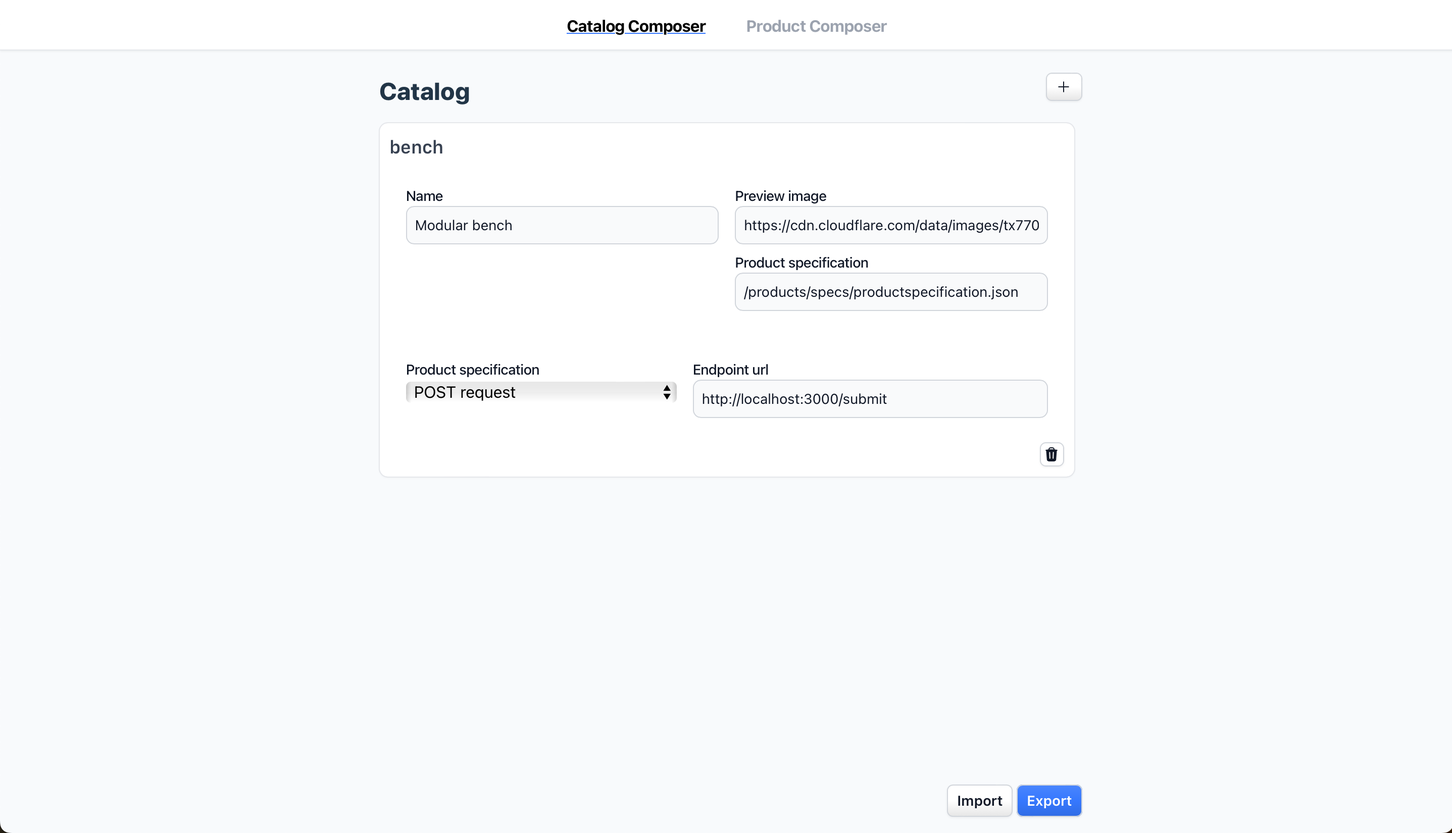
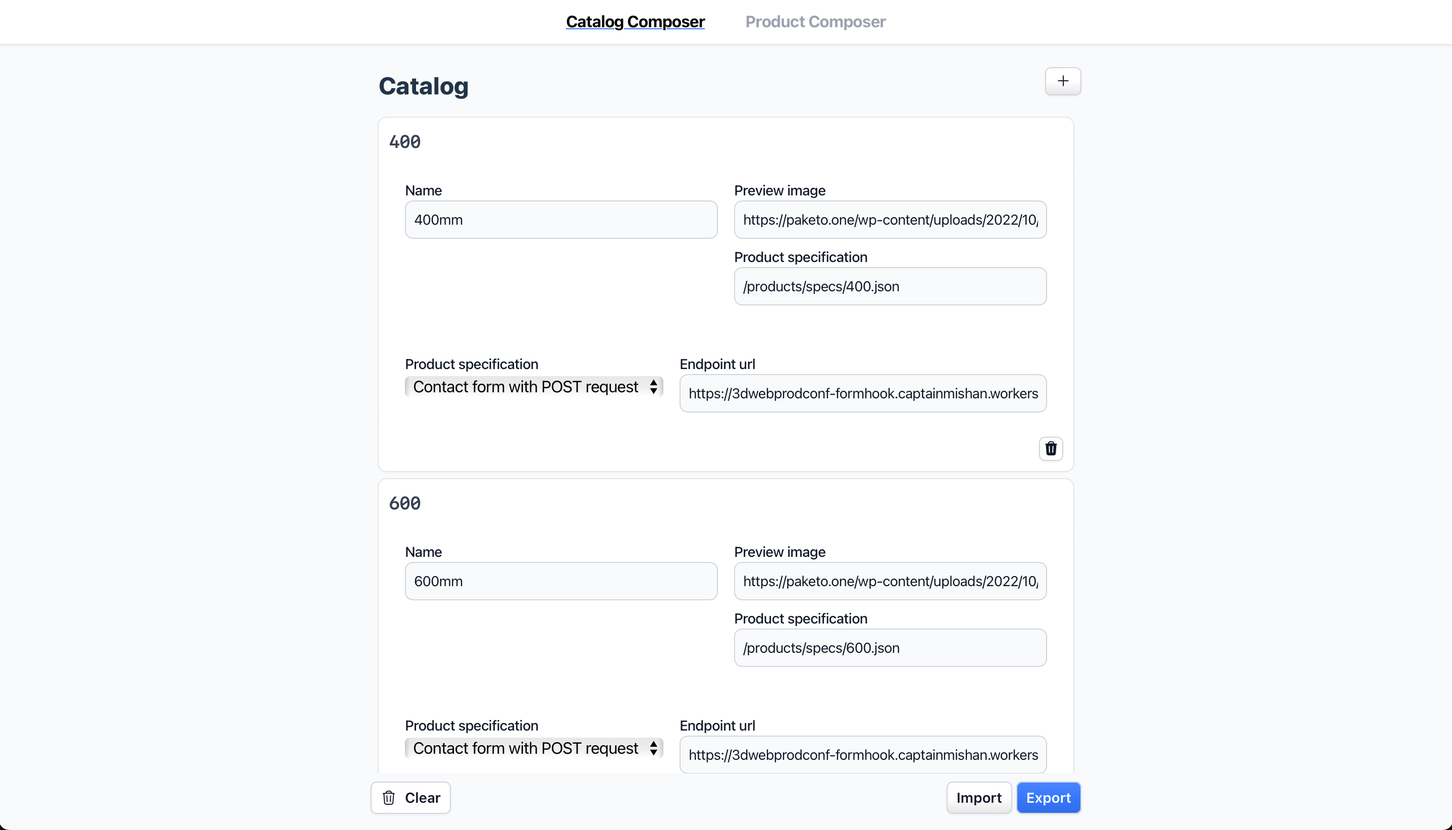
Update on Overleaf.

diff --git a/text/chapters/3.tex b/text/chapters/3.tex
@@ -157,6 +157,7 @@ export const ComponentSpecificationSchema = z.object({
     [z.number(), z.number(), z.number()]).optional(),
   ignoreCollisions: z.boolean().optional(),
   collisionSensitivity: z.number().min(50).max(100).optional(),
+  sortIndex: z.number().optional(),
 });
 
 export const ProductSpecificationSchema = z.object({
@@ -174,7 +175,9 @@ The schemas are also derived from the domain model, although with some modificat
 
 Most of the concepts in this part are identical to the domain model; however, the new concept of \texttt{base} component is introduced here. Due to the modularity principle, each component is in some way mounted on another component. Base components are such components that can initiate the configuration as they are not mounted to other components. They represent the potentially first component of a configuration. These base components are defined in the product specification.
 
-In the data schema, the model is directly included in the component specification, with the \texttt{modelUrl} attribute pointing to a location with the 3D model file. To compensate for this coupling, attributes that modify the position, rotation, and scale of the model are added to the component specification. Further attributes are also present, such as a description or the option to ignore collisions for this component. The material specification includes the names of the model's meshes in the attribute \texttt{modelMaterials}, and the color specification features the \texttt{sortIndex} attribute, which determines the presentation order to the user.
+In the data schema, the model is directly included in the component specification, with the \texttt{modelUrl} attribute pointing to a location with the 3D model file. To compensate for this coupling, attributes that modify the position, rotation, and scale of the model are added to the component specification. The component specification as well as the color specification include the \texttt{sortIndex} attribute, which determines the presentation order to the user, with lower number having higher priority. Further attributes are also present, such as a description or the option to ignore collisions for this component.
+
+The material specification includes the names of the model's meshes in the attribute \texttt{modelMaterials}. And the color specification includes the color value.
 
 In TypeScript, the aggregations depicted in the UML diagram are implemented as records, with the IDs serving as keys and the objects as values. Other associations are implemented using solely IDs. Color values are represented using hex code. The implementation of the product and component specifications can be viewed in \autoref{lisiting:schema-componentspecification}. Other entities in this section are implemented similarly and therefore do not require detailed previews within the text of the thesis.
 
@@ -290,39 +293,42 @@ To meet the requirement \hyperref[itm:F4]{F4}, which enables users to select com
 \subsection{Model Material Change}
 % - - - - - - - - - - - - - - - - - - - - - - - - - - - - - - -
 
-To fulfill the requirement \hyperref[itm:F8]{F8}, which allows users to modify the appearance of materials in a component, there must be a mechanism that allows the colors of parts of the model to be changed within the preview. Each GLTF file with model contains meshes and default materials. When the user changes the color of a material, the model needs to be decomposed into its atomic parts. This allows for each part's material to be found and adjusted. 
+To fulfill the requirement \hyperref[itm:F8]{F8}, which allows users to modify the appearance of materials in a component, there must be a mechanism that allows to change the colors of parts of the model within the preview. Each GLTF file with model contains meshes and default materials. When the user changes the color of a material, the model needs to be decomposed into its atomic parts. This allows for each part's material to be found and adjusted. 
 
-In the implementation, which is in a simplified form presented in \autoref{lisiting:impl-modelcomposition}, it is iterated through all meshes and materials of the model, replacing the default materials for the customized ones whenever needed. As a result of this approach, the model is not inserted into the scene at once, but instead every mesh is included separately along with the corresponding material. This is achieved using the group where all the meshes of the model reside, which as mentioned in the previous section also changes the position, rotation, and scale of the model.
+In the implementation, which is in a simplified form presented in \autoref{lisiting:impl-modelcomposition}, it is iterated in a recursive manner through all meshes of the model, replacing the default materials for the customized ones whenever needed. 
+
+As a result of this approach, the model is not inserted into the scene at once, but instead every mesh is included separately along with the corresponding material. This is achieved using the group where all the meshes of the model reside, which as mentioned in the previous section also changes the position, rotation, and scale of the model.
 
 Changing the colors of the materials is facilitated through the side panel. The new color value is stored in a Valtio proxy, from which it is read when composing the 3D model, ensuring dynamic updates of the visual preview whenever the user makes changes.
 
 \begin{listing}[h!]
 \begin{minted}{typescript}
-<group
-  onClick={onSelect}
-  position={componentSpec.positionOffset}
-  rotation={componentSpec.rotationOffset}
-  scale={componentSpec.scaleOffset}
->
-  {Object.entries(model).map(([name, node]) => {
-    if (node.type === "Mesh") {
-      const mesh = node as Mesh;
-      const material =
-        customMaterials[mesh.material.name] 
-        || materials[mesh.material.name];
-
-      return (
-        <mesh
-          key={name}
-          geometry={mesh.geometry}
-          material={material}
-        />
-      );
-    }
-  })}
-</group>
+export const Render = ({
+  object,
+  materialOverrides
+}: RenderProps) => {
+  if (object.type === "Group" || object.type === "Object3D") {
+    return (
+      <group data={object.data}>
+        {object.children.map((child) => (
+          <Render
+            object={child}
+            materialOverrides={materialOverrides}
+          />
+        ))}
+      </group>
+    );
+  } else if (object.type === "Mesh") {
+    return (
+      <mesh
+        material={getMaterial(mesh.material, materialOverrides) 
+        data={object.data}}
+      />
+    );
+  }
+};
 \end{minted}
-\caption{Implementation of model composition}
+\caption{Preview of model composition implementation}
 \label{lisiting:impl-modelcomposition}
 \end{listing}
 
@@ -384,7 +390,7 @@ export function collisionDetection(
   return collisionDetected;
 }
 \end{minted}
-\caption{Implementation of collision detection}
+\caption{Preview of collision detection implementation}
 \label{lisiting:impl-collisiondetection}
 \end{listing}
 
@@ -402,7 +408,7 @@ As needed by requirement \hyperref[itm:F9]{F9} and discussed previously, after c
 export const ContactInfoSchema = z.object({
   name: z.string(),
   email: z.string().email(),
-  phone: z.string().max(20).optional(),
+  phone: z.string().max(26).optional(),
   note: z.string().max(10000).optional(),
 });
 \end{minted}
@@ -436,20 +442,22 @@ fetch(globalConfigUrl)
     globalConfig.config = AppConfigSchema.parse(data);
   })
   .then(() => {
-    ReactDOM.createRoot(document.getElementById("root")!)
-        .render(<App />);
+    const i18n = configureI18n();
+    const router = createBrowserRouter(routes);
+    root.render(
+      <React.StrictMode>
+        <App i18n={i18n} router={router} />
+      </React.StrictMode>
+    );
   })
   .catch((error) => {
     console.error(error);
-    ReactDOM.createRoot(document.getElementById("root")!)
-        .render(
-            <p className="text-red-600">
-              Fatal error: couldn&apos;t initialize appconfig.
-            </p>
-        );
+    root.render(
+      <p className="text-red-600">Fatal error</p>
+    );
   });
 \end{minted}
-\caption{Implementation of application initialization and config loading}
+\caption{Preview of application initialization and config loading implementation}
 \label{listing:impl-applicationconfig}
 \end{listing}
 
@@ -458,6 +466,8 @@ As the tool is front-end-based, its configuration is handled using a JSON file. 
 This may increase the First Contentful Paint (FCP) metric, which measures the time it takes to display anything on screen during the loading of the application. \cite{Walton2023}
 
 However, in this case, the impact is minimal, as the resource is relatively small, and located in the same location as the rest of the application.
+
+Right after the config file is fetched, libraries for routing and internationalization are prepared. Then, React and the rest of the app is initialized. 
 
 The config file includes the URL with the location of catalog (which is therefore also fetched at runtime, allowing for live updates), toggles for features, settings of the 3D preview, and color settings for the tint of the interface, meaning unless larger customization is required, there is no need for CSS modifications. It also includes locations of images such as logos or favicons, as well as the title of the website.
 
@@ -469,9 +479,9 @@ As described in \autoref{section:i18n}, the i18next library was chosen for local
 
 The library is setup in such a way that it expects for all localization files to be located in \texttt{/locales/\{language\}/translation.json}, where \texttt{\{language\}} is a two-letter language code. This structure allows simple addition of further languages, as the applicaiton performs automatic lookup for these translation files. Only the general config file needs to be updated with the list of available languages. Additionally, one language must be designated as the default localization in the general config file, which will serve as the fallback.
 
-Like the the general config file, the translation files are loaded at runtime, therefore changes to the interface texts or additions of new localizations can be performed without redeploying of the application.
+Like the general config file, the translation files are loaded at runtime, therefore changes to the interface texts or additions of new localizations can be performed without redeploying of the application.
 
-The application attempts to automatically choose the correct language based on the detected browser settings, but also allows users to override this selection via a two-letter parameter in the \texttt{?lng=} query of any URL in the application.  
+The application attempts to automatically choose the correct language based on the detected browser settings, but also allows users to override this selection via a two-letter parameter in the \texttt{?lng=} query of any URL in the application. Language is also changeable using a menu.
 
 As part of the implementation, a default template localization in English is provided, providing a baseline.
 
@@ -561,6 +571,8 @@ For demonstration purposes, the screenshots feature a mocked product loaded from
 
 The implemented introductory screen is presented in \autoref{fig:screenshot-introduction}. The implementation adheres closely to the designed wireframe. The background color of the main section differentiates this part from the top bar and enhances the visibility of the tiles.
 
+Compared to the wireframes, the top bar also includes a settings button on the right, allowing users to choose theme or language.
+
 
 %______________________________________________________________
 \subsubsection{Configuration Screen}
@@ -574,11 +586,11 @@ The screenshot of the implemented configuration screen is presented in \autoref{
 \label{fig:screenshot-configuration}
 \end{figure}
 
-The screenshot captures the interface during the ongoing configuration process with mocked products, illustrating the layout that includes an expanded side panel. The 3D preview displays the configured components that have been added to the user creation, along with spatial buttons for adding additional components. The selected component is highlighted using black edges.
+The screenshot captures the interface during the ongoing configuration process with mocked products, illustrating the layout that includes an expanded side panel. The 3D preview displays the components that have been configured by the user, along with spatial buttons for adding additional components. The selected component is highlighted using black edges.
 
 The side panel shows more details about the selected component, along with the options to change the color of its material, remove it, or change it.
 
-A button located in the upper left corner of the preview allows for resetting the camera angle, while the buttons at the bottom center are dedicated to undo and redo actions. This is a slight deviation from the wireframe, as placing the important action buttons here seems more convenient than in the upper left.
+A buttons located in the upper left corner of the preview allow for resetting the camera angle or hiding spatial buttons, while the buttons at the bottom center are dedicated to undo and redo actions. This is a slight deviation from the wireframe, as placing the important action buttons here seems more convenient than in the upper left.
 
 
 %______________________________________________________________
@@ -586,7 +598,7 @@ A button located in the upper left corner of the preview allows for resetting th
 
 The implementation of the confirmation screen again closely follows the designed wireframe, as shown in \autoref{fig:screenshot-confirmation}.
 
-The screenshot contains a list of configured components for a mocked product, each displaying the details in the form of selected color of their material.
+The screenshot contains a list of configured components for a mocked product, optionally displaying the details in the form of selected colors of their materials.
 
 The panel on the right side, which contains the different buttons, is floating; therefore, it stays fixed in the same position even if the page is scrolled. The panel contains back and confirm buttons, as well as a button for printing the component list visible on the left.
 
@@ -604,7 +616,7 @@ The panel on the right side, which contains the different buttons, is floating; 
 
 This section presents the interfaces of the administrator application, which is described in more detail in the previous sections (see \autoref{section:catalog-management}).
 
-For demonstration purposes, the screenshots here include the same mocked product featured in the configurator application screenshots.
+For demonstration purposes, the screenshots included here feature mocked-up products being prepared for use in the configurator application
 
 The top bar in the administrator application includes a toggle switch between the two screens: Catalog Composer and Product Composer.
 
@@ -620,7 +632,7 @@ The top bar in the administrator application includes a toggle switch between th
 \end{figure}
 
 
-The screen presents catalog entries as tiles, each containing a form with editable fields of the catalog product. These entries are easily added using a button on the top right, or removed using a button within the tile.
+The screen presents catalog entries as tiles, each containing a form with editable fields of the catalog product. These entries are easily added using a button on the top right, or removed using a button within the tile, or button that removes all components at the bottom.
 
 The catalog can be downloaded as a JSON file using an export button located at the bottom of the screen. Furthermore, the catalog can be imported from JSON using an import button. The exported file can then be utilized in the user-facing application.
 
@@ -628,7 +640,7 @@ The catalog can be downloaded as a JSON file using an export button located at t
 %______________________________________________________________
 \subsubsection{Product Composer}
 
-The Product Composer screen copies the layout of the configuration screen of the user-facing application, but has an additional side panel on the left. This panel is used to add and remove component specifications or to select the base component specifications for products. Bottom of this panel also contains the import and export buttons, which serve to download or upload product specifications in a JSON file. Selecting a component specification within this panel displays its model in the 3D preview area, while the right side panel, used during the configuration process to present detailed information, allows for the adjustment of all component specification attributes, such as position, rotation, scale, mounting points, and materials.
+The Product Composer screen copies the layout of the configuration screen of the user-facing application, but has an additional side panel on the left. This panel is used to add and remove component specifications or to select the base component specifications for products. Bottom of this panel also contains the import, export and clear buttons, which serve to download or upload product specifications within a JSON file. Selecting a component specification within this panel displays its model in the 3D preview area, while the right side panel, used during the configuration process to present detailed information, allows for the adjustment of all component specification attributes, such as position, rotation, scale, mounting points, and materials.
 
 \begin{figure}[h!]
 \centering
@@ -690,6 +702,8 @@ The implemented versatile toolkit provides robust solutions for both user and ad
     No \\
 \hyperref[itm:F19]{F19} & AR viewing capabilities &
     No \\
+\hyperref[itm:F20]{F20} & Parametric configuration mechanism &
+    No \\
 \bottomrule
 \end{tabular}
 \caption{Summary of implemented functional requirements}
@@ -699,7 +713,7 @@ The implemented versatile toolkit provides robust solutions for both user and ad
 
 The implemented functional requirements are summarized in \autoref{table:summary-implementation}, providing a clear overview of the project's achievements and the functionality of the toolkit. As shown, the majority of the requirements have been implemented.
 
-Notably, the requirements concerning the configuration local saving and retrieval (\hyperref[itm:F12]{F12}), real-time price calculation (\hyperref[itm:F18]{F18}), and augmented reality (AR) viewing capabilities (\hyperref[itm:F19]{F19}) have not been implemented. These areas represent potential opportunities for further development. The omission of these functionalities was due to prioritization based on project scope and resource availability. Current technological constraints also played a role in the lack of implementation of the AR viewing capabilities requirement.
+Notably, the requirements concerning the configuration local saving and retrieval (\hyperref[itm:F12]{F12}), real-time price calculation (\hyperref[itm:F18]{F18}), augmented reality (AR) viewing capabilities (\hyperref[itm:F19]{F19}) and parametric configuration mechanism (\hyperref[itm:F20]{F20}) have not been implemented. These areas represent potential opportunities for further development. The omission of these functionalities was due to prioritization based on project scope and resource availability. Current technological constraints also played a role in the lack of implementation of the AR viewing capabilities requirement.
 
 The requirement for interface appearance customization has (\hyperref[itm:F14]{F14}) has been partially satisfied, as the application allows to change the color scheme by changing the config file, but elements such as button style are customizable only by changing the direct CSS code.
 
@@ -719,5 +733,3 @@ There are various possible enhancement this solution could incorporate to enhanc
 \end{itemize}
 
 The enhancements described in this section outline possible future development directions of this toolkit, aimed at increasing functionality, improving user experience, and ensuring scalability.
-
-\todo{Update images, model composition snippets, expand the phone size in ContactInfoSchema, add more info about i18n and router initialization, add sort index to components}

diff --git a/text/chapters/4.tex b/text/chapters/4.tex
@@ -1,12 +1,12 @@
 \chapter{Deployment}
 
 \begin{chapterabstract}
-    Lorem ipsum dolor sit amet.
+    Example deployment, configuration and customization of the application. Examination of associated cost and the impact on business processes.
 \end{chapterabstract}
 
 In the following chapter, the attention is shifted from the development process to the deployment of the created solution. In this chapter, the focus is two-fold: firstly, the deployment of the solution is described in practical steps from the toolkit's administrator perspective, then business implications such as cost and process optimization are examined.
 
-The setup of the solution is described from the point of view of a business wanting to utilize the tool. For illustration purposes, an example company is used in this chapter. The chosen company manufactures modular point-of-sale cardboard displays. To offer their product, they maintain a basic online presence using a simple website with information about the company and a showcase of their products, and a inquiry form which allows them to be contacted by their customer. In this scenario, the company aims to integrate the 3D configurator into its existing website to offer an interactive, user-friendly service that allows customers to customize and visualize options for their own configurations of cardboard displays.
+The setup of the solution is described from the point of view of a business wanting to utilize the tool. For illustration purposes, an example company is used in this chapter. The chosen company manufactures modular point-of-sale cardboard displays. To offer their product, they maintain a basic online presence using a simple WordPress website with information about the company, a showcase of their products, and an inquiry form which allows them to be contacted by their customer. In this scenario, the company aims to integrate the 3D configurator into its existing website to offer an interactive, user-friendly service that allows customers to customize and visualize options for their own configurations of cardboard displays.
 
 By the end of this chapter, a comprehensive understanding of the deployment process of the toolkit from both a technical and business perspective will be provided.
 
@@ -179,6 +179,31 @@ Consequently, the return on investment (ROI) for this solution is therefore proj
 
 \subsection{Operational Impact}
 
-To evaluate the impact deployment of the solution brings to businesses and companies is a complex task. The toolkit is adaptable and product-agnostic, meaning it can be utilized by different companies being in different fields or in different parts of a supply chain (such as reselling or manufacturing). Sequentially, the impact on processed will be different in each case.
+Evaulating the impact deployment of the solution brings to businesses and companies is a complex task. The toolkit is adaptable and product-agnostic, meaning it can be utilized by different companies across different industries or in different parts of a supply chain. Consequently, the impact on processes will differ in each scenario.
 
-This section will describe the change in processes after the tool deployment of the example company examined in this chapter, and should serve illustrate one of the effects this tool can have.  
+Therefore, this section will describe the change in processes after the tool's deployment in the example company examined in this chapter, as this should serve as an illustration of one of the common effects this tool can have.
+
+This solution deployed in the example company impacts the inquiry and order process. This section will describe this process before and after implementation. The process involves two actors: the customer wanting to purchase a product and the company employee handling the customer's requests.
+
+\begin{landscape}
+\begin{figure}[h!]
+\centering
+\includegraphics[width=0.78\linewidth]{images/uml_originalactivity.png}
+\caption{Original order process as a UML activity diagram.}
+\label{fig:uml-originalactivity}
+\end{figure}
+\begin{figure}[h!]
+\centering
+\includegraphics[width=0.78\linewidth]{images/uml_newactivity.png}
+\caption{Order process with implemented solution as a UML activity diagram.}
+\label{fig:uml-newactivity}
+\end{figure}
+\end{landscape}
+
+The UML activity diagram of the original process is illustrated in \autoref{fig:uml-originalactivity}. The inquiry and order process before deployment of the solution looks as follows. Initially, when customers wants to purchase a manufactured product, they visit the website of the company and fill out the inquiry form. Based on the information provided in the inquiry form, the employee creates a visualization, which is sent to the customer along with additional product customization informations. At this point, the customer decides if this is the product they want or if they want to stop the process there. If the customer likes the product and options presented by the employee, an iterative process begins between the customer and employee, where the employee tries to create an adequate quote for the product to the customer, while the customer sends back the proposed adjustments to the employee. When an agreement is reached, the order is placed and the product goes into production. 
+
+After deploying the solution in this company, as described in the previous sections, the inquiry and order process can change into the form illustrated in \autoref{fig:uml-newactivity}. With this change, the customer visits the company's website and directly creates the configuration of the product they desire. The steps where the employee would need to present product visualizations and options are bypassed, as these are now handled by the tool. If the customer is satisifed the configured product, they send an inquiry containing the configuration, and the employee can base the quote on this configuration. The process then follows the same way as in the original scenario.
+
+This demonstrates the power of the developed tool to simplify the initial step of the process, saving the employees time that would otherwise be spent on communicating with the customer. It also allows the customers to clearly express their preferences using the tool, reducing the friction of the inquiry process and potentially leading to more conversions into orders.
+
+The tool also finds its application in marketing, where it can be used by the company to attract more potential customers.

diff --git a/text/chapters/1.tex b/text/chapters/1.tex
@@ -388,7 +388,7 @@ This preliminary assessment aims to classify the requirements without relying on
 
 \item \textbf{F10:} \label{itm:F10} Configuration processing
 \vspace{2pt}
-\\At the end of the configuration process, users should be presented with a confirmation button, provided that an administrator has set up a specific confirmation action for the product. This button is intended for users to confirm their choices and trigger a predetermined action, like performing an API request or being directed to another page, as specified by the administrator. This should allow for a smooth transition, where, upon configuration confirmation, the user is engaged in a follow-up action, like a checkout process or being guided to a physical store locator page. The ability to perform a custom API call set by the administrator at the end of the configuration process provides a flexible way to integrate the configurator with different systems or processes, thus improving its functionality and delivering a seamless user experience from start to finish.
+\\At the end of the configuration process, users should be optionally presented with a confirmation button, provided that an administrator has set up a specific confirmation action for the product. This button is intended for users to confirm their choices and trigger a predetermined action, such as calling a webhook or being directed to another page, as specified by the administrator. This should allow for a smooth transition, where, upon configuration confirmation, the user is engaged in a follow-up action, like a checkout process or being guided to a physical store locator page. The ability to perform a custom API call set by the administrator at the end of the configuration process provides a flexible way to integrate the configurator with different systems or processes, thus improving its functionality and delivering a seamless user experience from start to finish.
 \begin{description}[noitemsep]
     \item[Priority:] Should
     \item[Difficulty:] Simple
@@ -476,6 +476,14 @@ This preliminary assessment aims to classify the requirements without relying on
     \item[Difficulty:] Complex
 \end{description}
 \vspace{4pt}
+
+\item \textbf{F20:} \label{itm:F20} Parametric configuration
+\vspace{2pt}
+\\As a complement of the modularity mechanism (see requirement \hyperref[itm:F3]{F3}) the toolkit should incorporate parametric mechanisms that allow users to configure products by setting parametric values on the configured components when interacting with them (see requirement \hyperref[itm:F4]{F4}). The toolkit administrator should have the ability to create configurable parameters of the components, along with the types and possible range of values, enhancing the solution space of configuration.
+\begin{description}[noitemsep]
+    \item[Priority:] Could
+    \item[Difficulty:] Complex
+\end{description}
 
 \end{enumerate}
 

diff --git a/text/chapters/2.tex b/text/chapters/2.tex
@@ -56,7 +56,7 @@ Three.js is considered an undisputed leader in this category, having the biggest
 
 Leveraging front-end frameworks significantly enhances the development of web applications by addressing common front-end challenges. These frameworks often provide a structured approach for creating maintainable and reusable components, optimizing data manipulations, employing common design patterns, and ensuring that the user interface remains in sync with the underlying state. Various frameworks and libraries are available, such as React, Vue.js, or Angular, each with different benefits and drawbacks. The choice of which framework to use often involves complex decision making, influenced by specific project needs, team skills, and the unique characteristics of each framework. \cite{Gimeno2018} \cite{Pekarsky2020}
 
-For this solution, the decision has been greatly influenced by the selection of \hyperref[section:WebGL]{WebGL framework}, Three.js. The React Three Fiber (R3F) library offers a seamless integration of Three.js into the React ecosystem. R3F is a React renderer, enabling the direct use of Three.js components as React components. The integration is optimized, with the Three.js components rendered outside React's rendering process, therefore, having minimal overhead. Moreover, it is comprehensive, meaning that all Three.js features are exposed and accessible using this library. \cite{R3F}
+For this solution, the decision has been greatly influenced by the selection (see previous section) of WebGL framework, Three.js. The React Three Fiber (R3F) library offers a seamless integration of Three.js into the React ecosystem. R3F is a React renderer, enabling the direct use of Three.js components as React components. The integration is optimized, with the Three.js components rendered outside React's rendering process, therefore, having minimal overhead. Moreover, it is comprehensive, meaning that all Three.js features are exposed and accessible using this library. \cite{R3F}
 
 In addition, the Drei library, built on top of R3F, introduces a collection of useful components, abstractions, and helpers. These additions streamline the development with Three.js and React even more. \cite{Drei}
 
